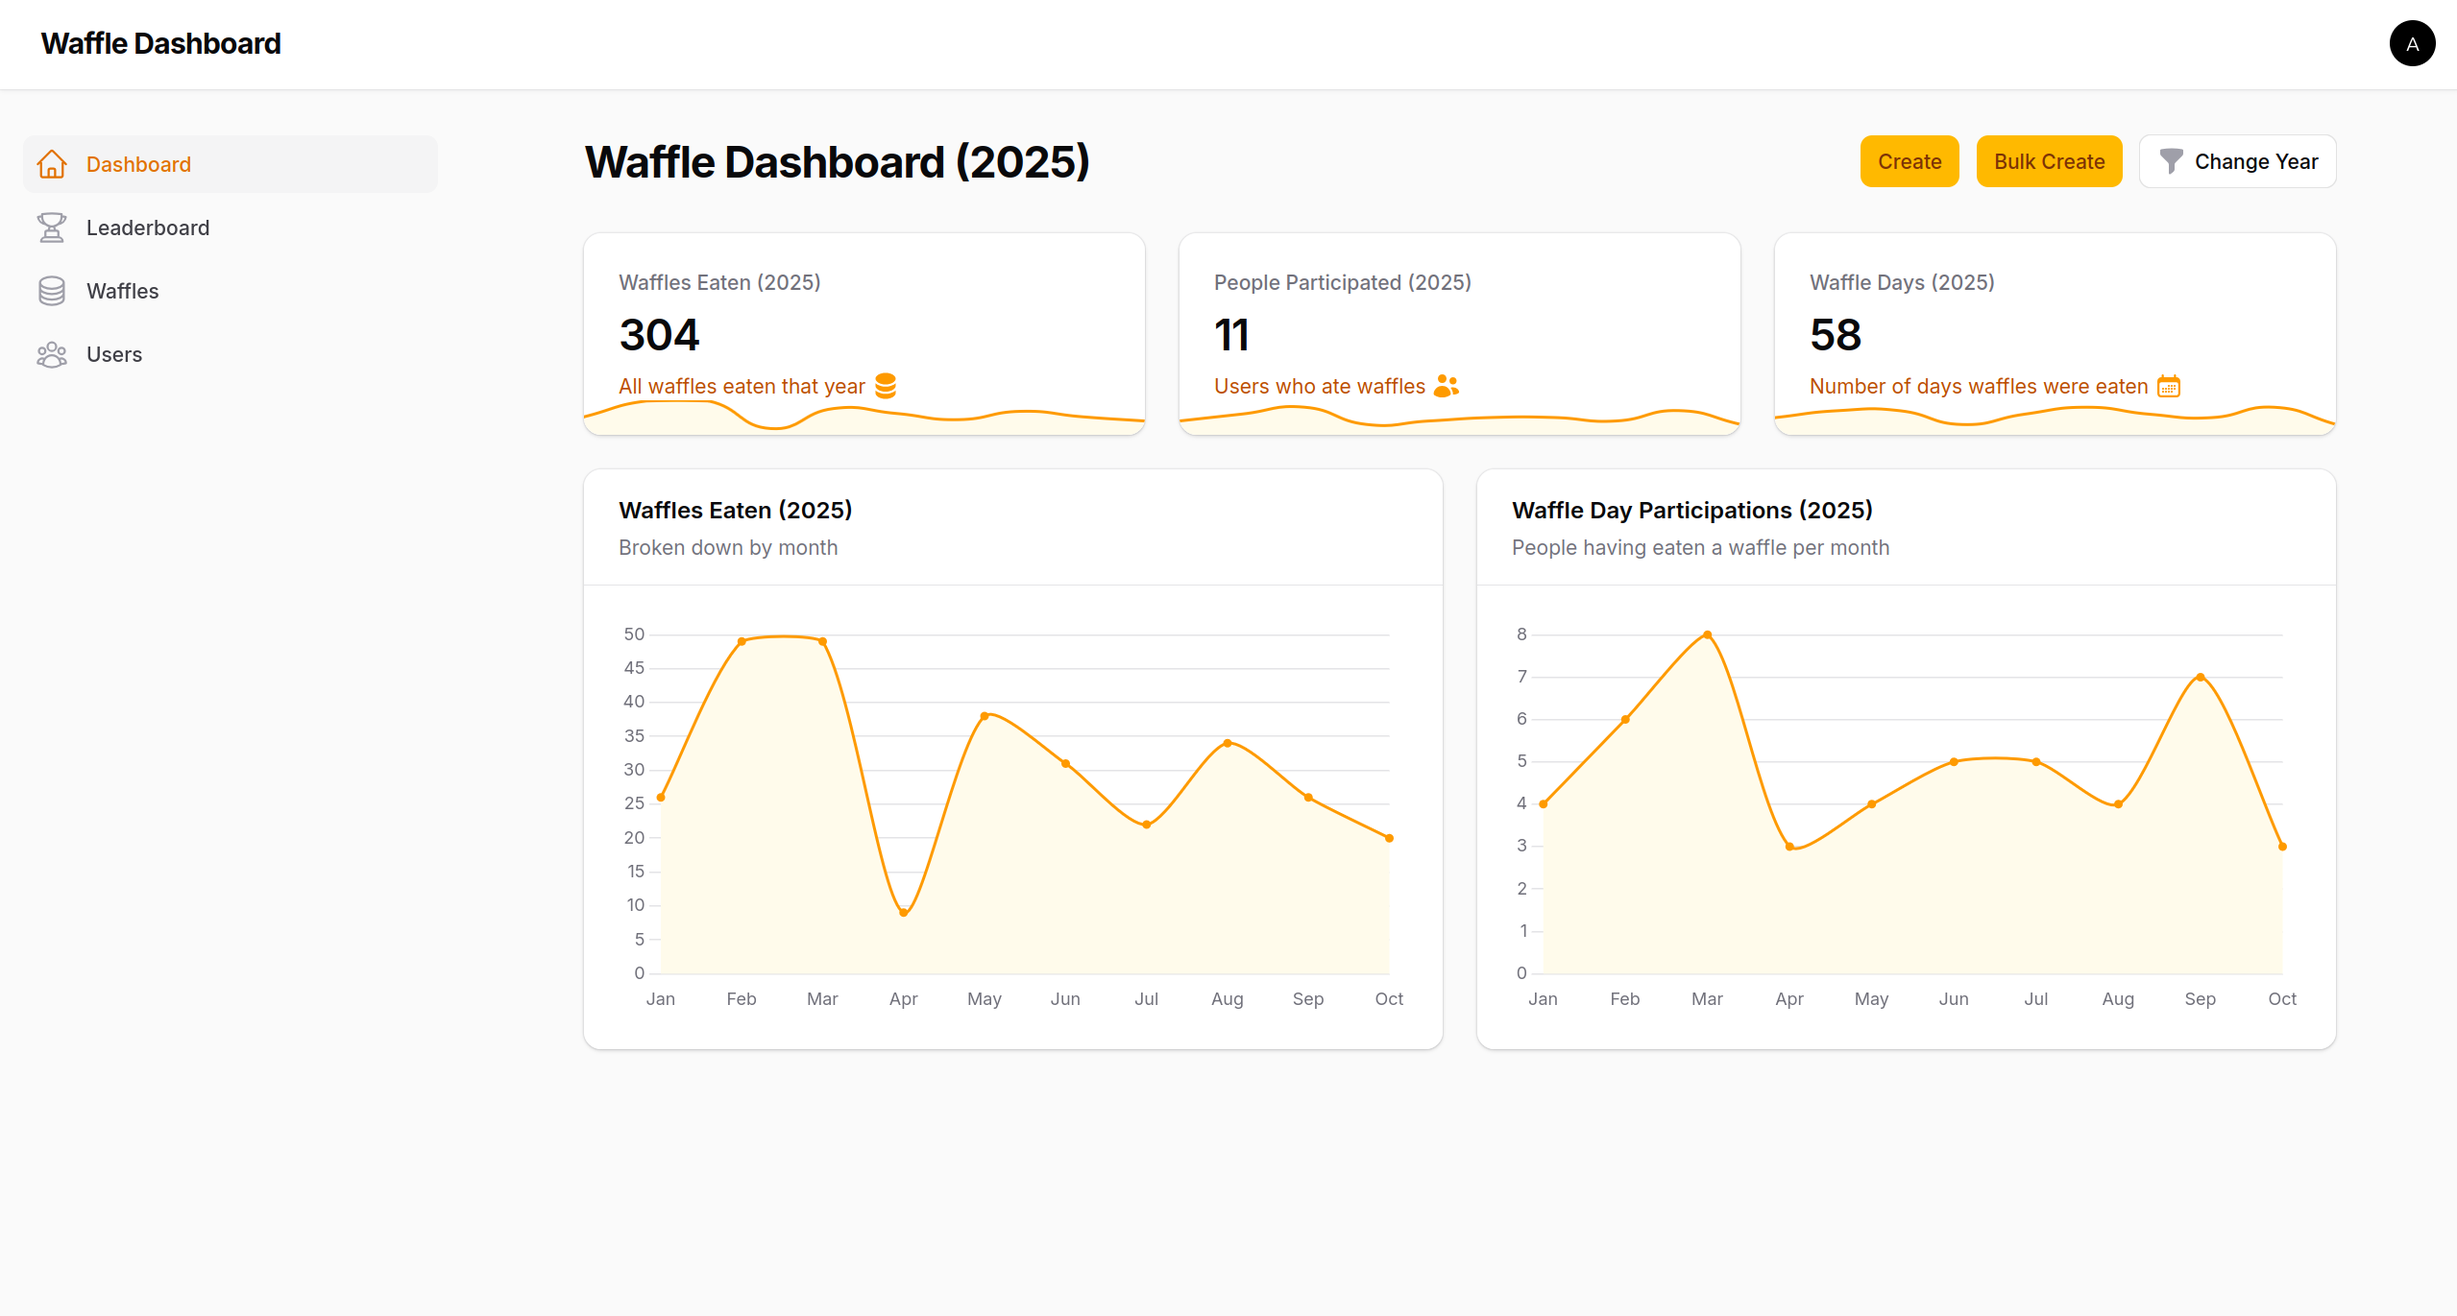
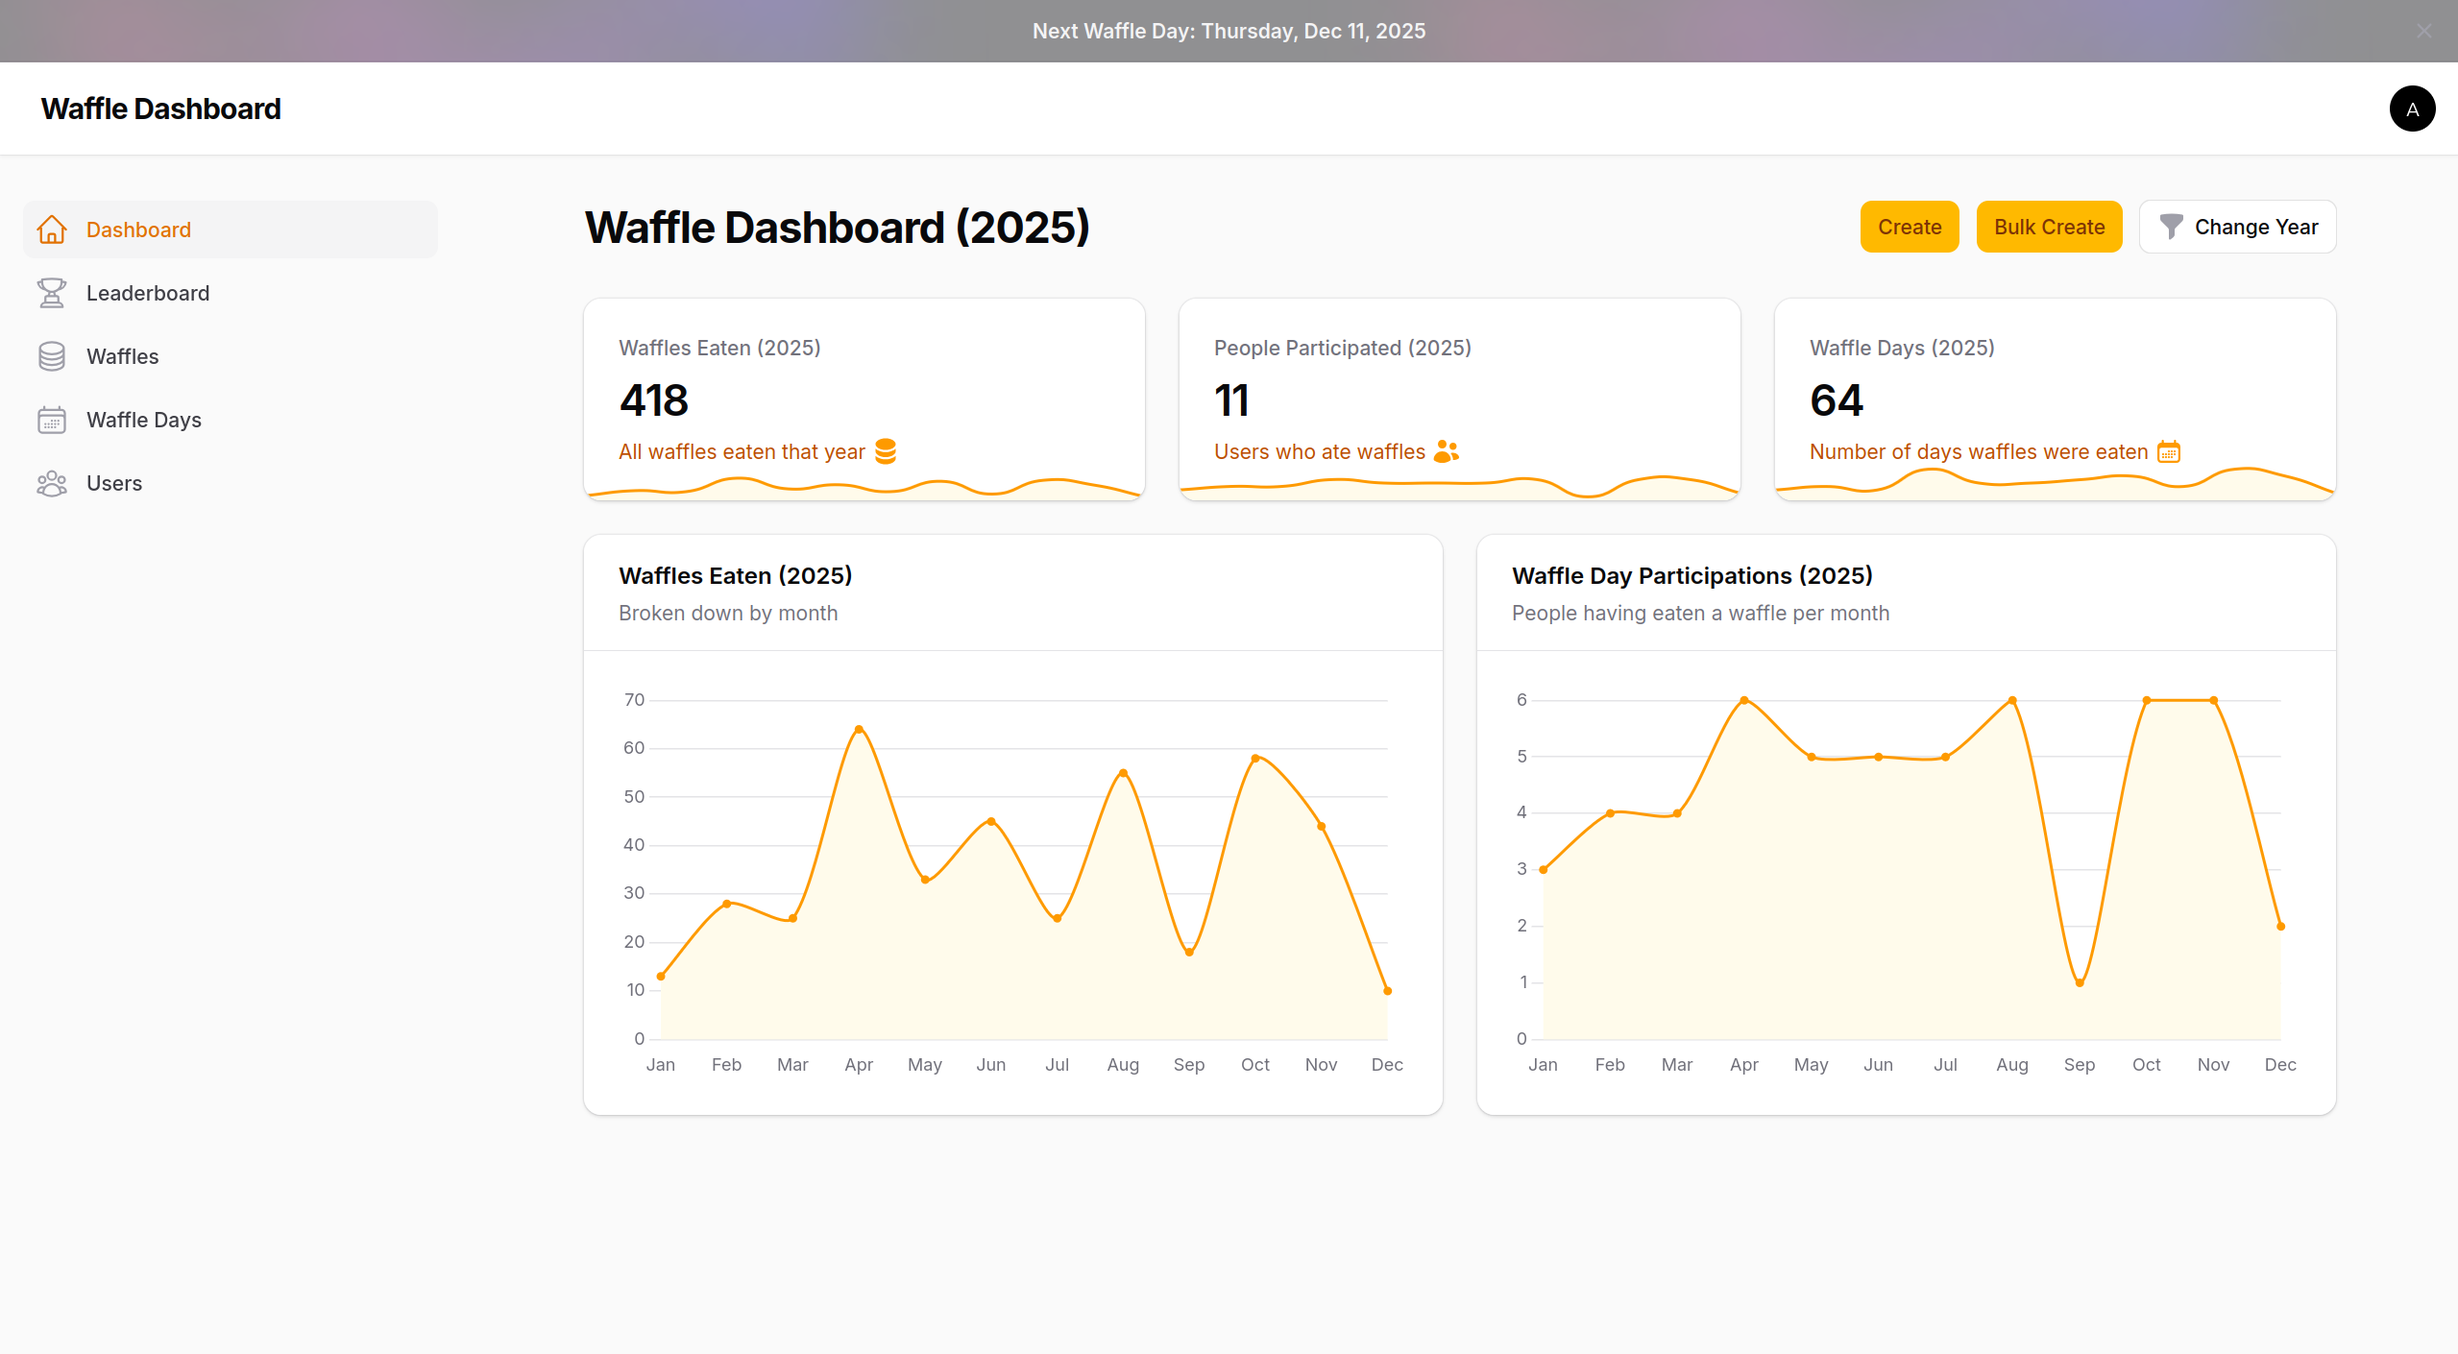
feat: add waffle day events

diff --git a/resources/css/filament/main/theme.css b/resources/css/filament/main/theme.css
@@ -2,3 +2,4 @@
 
 @source '../../../../app/Filament/**/*';
 @source '../../../../resources/views/filament/**/*';
+@source '../../../../resources/views/components//**/*';

diff --git a/app/Filament/Resources/WaffleDays/WaffleDayResource.php b/app/Filament/Resources/WaffleDays/WaffleDayResource.php
@@ -1,0 +1,88 @@
+<?php
+
+namespace App\Filament\Resources\WaffleDays;
+
+use App\Filament\Resources\WaffleDays\Pages\ManageWaffleDays;
+use App\Models\WaffleDay;
+use BackedEnum;
+use Carbon\Carbon;
+use Carbon\CarbonInterface;
+use Filament\Actions\BulkActionGroup;
+use Filament\Actions\DeleteAction;
+use Filament\Actions\DeleteBulkAction;
+use Filament\Actions\EditAction;
+use Filament\Forms\Components\DatePicker;
+use Filament\Forms\Components\TextInput;
+use Filament\Resources\Resource;
+use Filament\Schemas\Schema;
+use Filament\Support\Icons\Heroicon;
+use Filament\Tables\Columns\TextColumn;
+use Filament\Tables\Filters\Filter;
+use Filament\Tables\Table;
+use Illuminate\Database\Eloquent\Builder;
+
+class WaffleDayResource extends Resource
+{
+    protected static ?string $model = WaffleDay::class;
+
+    protected static string|BackedEnum|null $navigationIcon = Heroicon::OutlinedCalendarDays;
+
+    protected static ?int $navigationSort = 40;
+
+    public static function shouldRegisterNavigation(): bool
+    {
+        return auth()->user()?->isAdmin() ?? false;
+    }
+
+    public static function form(Schema $schema): Schema
+    {
+        return $schema
+            ->components([
+                DatePicker::make('date')
+                    ->label('Waffle Day Date')
+                    ->required()
+                    ->unique()
+                    ->native(false)
+                    ->default(Carbon::now()->next(CarbonInterface::THURSDAY)->addWeek()),
+
+                TextInput::make('note')
+                    ->label('Note / Description')
+                    ->placeholder('Optional - e.g. shifted to Tuesday due to holiday'),
+            ]);
+    }
+
+    public static function table(Table $table): Table
+    {
+        return $table
+            ->columns([
+                TextColumn::make('date')->date()->sortable(),
+                TextColumn::make('note')->limit(50),
+                TextColumn::make('created_at')->since(),
+            ])
+            ->defaultSort('date')
+            ->filters([
+                Filter::make('upcoming')
+                    ->label('Upcoming Only')
+                    ->default()
+                    ->query(fn(Builder $query): Builder =>
+                        $query->whereDate('date', '>=', Carbon::today())
+                    )
+            ])
+            ->recordActions([
+                EditAction::make(),
+                DeleteAction::make(),
+            ])
+            ->toolbarActions([
+                BulkActionGroup::make([
+                    DeleteBulkAction::make(),
+                ]),
+            ]);
+    }
+
+    public static function getPages(): array
+    {
+        return [
+            'index' => ManageWaffleDays::route('/'),
+        ];
+    }
+}

diff --git a/resources/views/components/next-waffle-day-banner.blade.php b/resources/views/components/next-waffle-day-banner.blade.php
@@ -1,0 +1,33 @@
+<div
+    x-data="{ open: true }"
+    x-show="open"
+    x-transition
+    class="relative isolate flex items-center gap-x-6 overflow-hidden bg-gray-800/50 px-6 py-2.5 after:pointer-events-none after:absolute after:inset-x-0 after:bottom-0 after:h-px after:bg-white/10 sm:px-3.5 sm:before:flex-1"
+>
+    {{-- Background Glow --}}
+    <div aria-hidden="true" class="absolute top-1/2 left-[max(-7rem,calc(50%-52rem))] -z-10 -translate-y-1/2 transform-gpu blur-2xl">
+        <div style="clip-path: polygon(74.8% 41.9%, 97.2% 73.2%, 100% 34.9%, 92.5% 0.4%, 87.5% 0%, 75% 28.6%, 58.5% 54.6%, 50.1% 56.8%, 46.9% 44%, 48.3% 17.4%, 24.7% 53.9%, 0% 27.9%, 11.9% 74.2%, 24.9% 54.1%, 68.6% 100%, 74.8% 41.9%)" class="aspect-577/310 w-144.25 bg-linear-to-r from-[#ff80b5] to-[#9089fc] opacity-40"></div>
+    </div>
+    <div aria-hidden="true" class="absolute top-1/2 left-[max(45rem,calc(50%+8rem))] -z-10 -translate-y-1/2 transform-gpu blur-2xl">
+        <div style="clip-path: polygon(74.8% 41.9%, 97.2% 73.2%, 100% 34.9%, 92.5% 0.4%, 87.5% 0%, 75% 28.6%, 58.5% 54.6%, 50.1% 56.8%, 46.9% 44%, 48.3% 17.4%, 24.7% 53.9%, 0% 27.9%, 11.9% 74.2%, 24.9% 54.1%, 68.6% 100%, 74.8% 41.9%)" class="aspect-577/310 w-144.25 bg-linear-to-r from-[#ff80b5] to-[#9089fc] opacity-40"></div>
+    </div>
+
+    {{-- Waffle Day Info --}}
+    <p class="text-sm/6 text-gray-100">
+        <strong class="font-semibold">Next Waffle Day: {{ $dateFormatted }}</strong>@if(!empty($nextWaffleDay->note))<svg viewBox="0 0 2 2" aria-hidden="true" class="mx-2 inline size-0.5 fill-current"><circle r="1" cx="1" cy="1" /></svg>{{ $nextWaffleDay->note }}@endif
+    </p>
+
+    {{-- Dismiss Button --}}
+    <div class="flex flex-1 justify-end">
+        <button
+            type="button"
+            x-on:click="open = false"
+            class="-m-3 p-3 focus-visible:-outline-offset-4"
+        >
+            <span class="sr-only text-8xl accent-blue-300">Dismiss</span>
+            <svg viewBox="0 0 20 20" fill="currentColor" data-slot="icon" aria-hidden="true" class="size-5 text-gray-400 hover:text-gray-300">
+                <path d="M6.28 5.22a.75.75 0 0 0-1.06 1.06L8.94 10l-3.72 3.72a.75.75 0 1 0 1.06 1.06L10 11.06l3.72 3.72a.75.75 0 1 0 1.06-1.06L11.06 10l3.72-3.72a.75.75 0 0 0-1.06-1.06L10 8.94 6.28 5.22Z" />
+            </svg>
+        </button>
+    </div>
+</div>

diff --git a/app/Providers/AppServiceProvider.php b/app/Providers/AppServiceProvider.php
@@ -2,6 +2,10 @@
 
 namespace App\Providers;
 
+use App\Models\WaffleDay;
+use Filament\Support\Facades\FilamentView;
+use Filament\View\PanelsRenderHook;
+use Illuminate\Support\Facades\Auth;
 use Illuminate\Support\ServiceProvider;
 
 class AppServiceProvider extends ServiceProvider
@@ -19,6 +23,27 @@ class AppServiceProvider extends ServiceProvider
      */
     public function boot(): void
     {
-        //
+        FilamentView::registerRenderHook(
+            PanelsRenderHook::TOPBAR_BEFORE,
+            function () {
+                $user = Auth::user();
+                if (! $user) {
+                    return null;
+                }
+
+                $nextWaffleDay = WaffleDay::where('date', '>=', now())->orderBy('date')->first();
+
+                if (! $nextWaffleDay) {
+                    return null;
+                }
+
+                $dateFormatted = $nextWaffleDay->date->format('l, M j, Y'); // e.g. Thursday, Dec 11, 2025
+
+                return view('components.next-waffle-day-banner', [
+                    'nextWaffleDay' => $nextWaffleDay,
+                    'dateFormatted' => $dateFormatted,
+                ]);
+            }
+        );
     }
 }

diff --git a/app/Filament/Actions/WaffleEatingBulkCreateAction.php b/app/Filament/Actions/WaffleEatingBulkCreateAction.php
@@ -3,6 +3,7 @@
 namespace App\Filament\Actions;
 
 use App\Models\User;
+use App\Models\WaffleDay;
 use App\Models\WaffleEating;
 use Filament\Actions\CreateAction;
 use Filament\Forms\Components\DatePicker;
@@ -31,7 +32,11 @@ class WaffleEatingBulkCreateAction extends CreateAction
                     ->schema([
                         Grid::make()
                             ->schema([
-                                DatePicker::make('date')->required()->maxDate(now())->minDate(now()->subYears(100))->default(now()),
+                                DatePicker::make('date')->required()->native(false)
+                                    ->maxDate(now())->minDate(now()->subYears(100))
+                                    ->default(function () {
+                                        return WaffleDay::mostRecent()?->date ?? now();
+                                    }),
                                 TextInput::make('count')->required()->integer()->minValue(1)->maxValue(100)->default(1),
 
                                 Select::make('user_id')

diff --git a/database/seeders/DatabaseSeeder.php b/database/seeders/DatabaseSeeder.php
@@ -4,7 +4,10 @@ namespace Database\Seeders;
 
 use App\Models\User;
 // use Illuminate\Database\Console\Seeds\WithoutModelEvents;
+use App\Models\WaffleDay;
 use App\Models\WaffleEating;
+use Carbon\Carbon;
+use Carbon\CarbonInterface;
 use Illuminate\Database\Seeder;
 
 class DatabaseSeeder extends Seeder
@@ -54,6 +57,18 @@ class DatabaseSeeder extends Seeder
                     'entered_by_user_id' => $allUsers->random()->id, // who entered
                 ];
             })
+            ->create();
+
+        // Create 5 waffle days (every 2nd Thursday, with one in the past)
+        $nextThursday = Carbon::now()->next(CarbonInterface::THURSDAY);
+        $dates = collect(range(-1, 3))->map(fn($i) => $nextThursday->copy()->addDays($i * 14));
+        WaffleDay::factory()
+            ->count(5)
+            ->sequence(
+                ...$dates->map(fn ($date) => [
+                    'date' => $date,
+                ])
+            )
             ->create();
     }
 }

diff --git a/app/Filament/Actions/WaffleEatingCreateAction.php b/app/Filament/Actions/WaffleEatingCreateAction.php
@@ -3,6 +3,7 @@
 namespace App\Filament\Actions;
 
 use App\Models\User;
+use App\Models\WaffleDay;
 use App\Models\WaffleEating;
 use Filament\Actions\CreateAction;
 use Filament\Forms\Components\DatePicker;
@@ -26,7 +27,11 @@ class WaffleEatingCreateAction extends CreateAction
             ->schema([
                 Grid::make()
                     ->schema([
-                        DatePicker::make('date')->required()->maxDate(now())->minDate(now()->subYears(100))->default(now()),
+                        DatePicker::make('date')->required()->native(false)
+                            ->maxDate(now())->minDate(now()->subYears(100))
+                            ->default(function () {
+                                return WaffleDay::mostRecent()?->date ?? now();
+                            }),
                         TextInput::make('count')->required()->integer()->minValue(1)->maxValue(100)->default(1),
 
                         Select::make('user_id')

diff --git a/app/Filament/Resources/WaffleEatings/WaffleEatingResource.php b/app/Filament/Resources/WaffleEatings/WaffleEatingResource.php
@@ -3,6 +3,7 @@
 namespace App\Filament\Resources\WaffleEatings;
 
 use App\Filament\Resources\WaffleEatings\Pages\ManageWaffleEatings;
+use App\Models\WaffleDay;
 use App\Models\WaffleEating;
 use BackedEnum;
 use Filament\Actions\BulkActionGroup;
@@ -35,7 +36,11 @@ class WaffleEatingResource extends Resource
     {
         return $schema
             ->components([
-                DatePicker::make('date')->required()->maxDate(now())->minDate(now()->subYears(100))->default(now()),
+                DatePicker::make('date')->required()->native(false)
+                    ->maxDate(now())->minDate(now()->subYears(100))
+                    ->default(function () {
+                        return WaffleDay::mostRecent()?->date ?? now();
+                    }),
                 TextInput::make('count')->required()->integer()->minValue(1)->maxValue(100)->default(1),
 
                 // Select user only on create

diff --git a/app/Filament/Resources/Users/RelationManagers/WaffleEatingsRelationManager.php b/app/Filament/Resources/Users/RelationManagers/WaffleEatingsRelationManager.php
@@ -2,6 +2,7 @@
 
 namespace App\Filament\Resources\Users\RelationManagers;
 
+use App\Models\WaffleDay;
 use Filament\Actions\BulkActionGroup;
 use Filament\Actions\CreateAction;
 use Filament\Actions\DeleteAction;
@@ -22,7 +23,11 @@ class WaffleEatingsRelationManager extends RelationManager
     {
         return $schema
             ->components([
-                DatePicker::make('date')->required()->maxDate(now())->minDate(now()->subYears(100))->default(now()),
+                DatePicker::make('date')->required()->native(false)
+                    ->maxDate(now())->minDate(now()->subYears(100))
+                    ->default(function () {
+                        return WaffleDay::mostRecent()?->date ?? now();
+                    }),
                 TextInput::make('count')->required()->integer()->minValue(1)->maxValue(100)->default(1),
             ]);
     }

diff --git a/app/Policies/WaffleDayPolicy.php b/app/Policies/WaffleDayPolicy.php
@@ -1,0 +1,40 @@
+<?php
+
+namespace App\Policies;
+
+use App\Models\User;
+use App\Models\WaffleDay;
+
+class WaffleDayPolicy
+{
+    public function viewAny(User $user): bool
+    {
+        // Only admins can see the waffle days list
+        return $user->isAdmin();
+    }
+
+    public function view(User $user, WaffleDay $waffleDay): bool
+    {
+        return $user->isAdmin();
+    }
+
+    public function create(User $user): bool
+    {
+        return $user->isAdmin();
+    }
+
+    public function update(User $user, WaffleDay $waffleDay): bool
+    {
+        return $user->isAdmin();
+    }
+
+    public function delete(User $user, WaffleDay $waffleDay): bool
+    {
+        return $user->isAdmin();
+    }
+
+    public function deleteAny(User $user): bool
+    {
+        return $user->isAdmin();
+    }
+}

diff --git a/database/migrations/2025_12_07_203217_create_waffle_days_table.php b/database/migrations/2025_12_07_203217_create_waffle_days_table.php
@@ -1,0 +1,29 @@
+<?php
+
+use Illuminate\Database\Migrations\Migration;
+use Illuminate\Database\Schema\Blueprint;
+use Illuminate\Support\Facades\Schema;
+
+return new class extends Migration
+{
+    /**
+     * Run the migrations.
+     */
+    public function up(): void
+    {
+        Schema::create('waffle_days', function (Blueprint $table) {
+            $table->id();
+            $table->date('date')->unique();
+            $table->string('note')->nullable();
+            $table->timestamps();
+        });
+    }
+
+    /**
+     * Reverse the migrations.
+     */
+    public function down(): void
+    {
+        Schema::dropIfExists('waffle_days');
+    }
+};

diff --git a/app/Models/WaffleDay.php b/app/Models/WaffleDay.php
@@ -1,0 +1,29 @@
+<?php
+
+namespace App\Models;
+
+use Illuminate\Database\Eloquent\Factories\HasFactory;
+use Illuminate\Database\Eloquent\Model;
+
+class WaffleDay extends Model
+{
+    /** @use HasFactory<\Database\Factories\WaffleDayFactory> */
+    use HasFactory;
+
+    protected $fillable = [
+        'date',
+        'note'
+    ];
+
+    protected $casts = [
+        'date' => 'date',
+    ];
+
+    public static function mostRecent(): ?self
+    {
+        return self::query()
+            ->where('date', '<=', now()->toDateString())
+            ->orderBy('date', 'desc')
+            ->first();
+    }
+}
